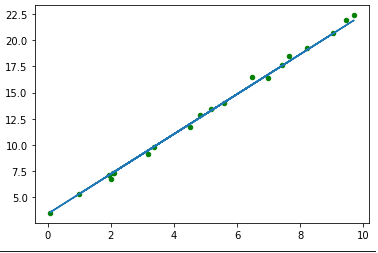
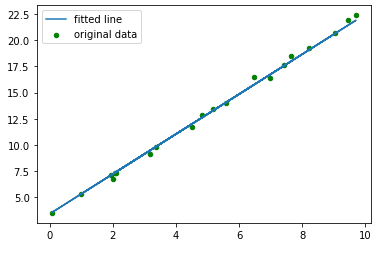
hexo deploy!

diff --git a/2020/04/02/Pytorchで単回帰やってみる/index.html b/2020/04/02/Pytorchで単回帰やってみる/index.html
@@ -27,7 +27,7 @@
 <meta property="og:image" content="https://kyoro1.github.io/images/scatter000.png">
 <meta property="og:image" content="https://kyoro1.github.io/images/scatter001.png">
 <meta property="article:published_time" content="2020-04-02T13:29:00.000Z">
-<meta property="article:modified_time" content="2020-04-02T15:58:45.919Z">
+<meta property="article:modified_time" content="2020-04-02T16:03:21.039Z">
 <meta property="article:author" content="Kyoichi Iwasaki">
 <meta property="article:tag" content="pytorch">
 <meta property="article:tag" content="data science">
@@ -134,7 +134,7 @@
 <p>こうやって計算させると、</p>
 <figure class="highlight py"><table><tr><td class="gutter"><pre><span class="line">1</span><br><span class="line">2</span><br></pre></td><td class="code"><pre><span class="line">w, b</span><br><span class="line"><span class="comment">#(tensor([[1.9053]], requires_grad=True), tensor([3.4280], requires_grad=True))</span></span><br></pre></td></tr></table></figure>
 <p>なので、元の値 <script type="math/tex">W=2, b=3</script> にそれなりに近い値が求められました。</p>
-<figure class="highlight py"><table><tr><td class="gutter"><pre><span class="line">1</span><br><span class="line">2</span><br><span class="line">3</span><br><span class="line">4</span><br><span class="line">5</span><br><span class="line">6</span><br><span class="line">7</span><br><span class="line">8</span><br></pre></td><td class="code"><pre><span class="line"><span class="comment">## 図示用に変形</span></span><br><span class="line">x_train_tensor = torch.from_numpy(X)</span><br><span class="line">predicted_in_tensor = x_train_tensor.mm(w) + b</span><br><span class="line">predicted = predicted_in_tensor.detach().numpy()</span><br><span class="line"></span><br><span class="line"><span class="comment">## 図示</span></span><br><span class="line">plt.scatter(X, y, label=<span class="string">'original data'</span>, s=<span class="number">20</span>, c=<span class="string">'g'</span>)</span><br><span class="line">plt.plot(X, predicted, label=<span class="string">'fitted line'</span>)</span><br></pre></td></tr></table></figure>
+<figure class="highlight py"><table><tr><td class="gutter"><pre><span class="line">1</span><br><span class="line">2</span><br><span class="line">3</span><br><span class="line">4</span><br><span class="line">5</span><br><span class="line">6</span><br><span class="line">7</span><br><span class="line">8</span><br><span class="line">9</span><br></pre></td><td class="code"><pre><span class="line"><span class="comment">## 図示用に変形</span></span><br><span class="line">x_train_tensor = torch.from_numpy(X)</span><br><span class="line">predicted_in_tensor = x_train_tensor.mm(w) + b</span><br><span class="line">predicted = predicted_in_tensor.detach().numpy()</span><br><span class="line"></span><br><span class="line"><span class="comment">## 図示</span></span><br><span class="line">plt.scatter(X, y, label=<span class="string">'original data'</span>, s=<span class="number">20</span>, c=<span class="string">'g'</span>)</span><br><span class="line">plt.plot(X, predicted, label=<span class="string">'fitted line'</span>)</span><br><span class="line">plt.legend()</span><br></pre></td></tr></table></figure>
 <p><img src="/images/scatter001.png" alt="元データと予測値を比較(散布図)"></p>
 
       

diff --git a/index.html b/index.html
@@ -131,7 +131,7 @@
 <p>こうやって計算させると、</p>
 <figure class="highlight py"><table><tr><td class="gutter"><pre><span class="line">1</span><br><span class="line">2</span><br></pre></td><td class="code"><pre><span class="line">w, b</span><br><span class="line"><span class="comment">#(tensor([[1.9053]], requires_grad=True), tensor([3.4280], requires_grad=True))</span></span><br></pre></td></tr></table></figure>
 <p>なので、元の値 <script type="math/tex">W=2, b=3</script> にそれなりに近い値が求められました。</p>
-<figure class="highlight py"><table><tr><td class="gutter"><pre><span class="line">1</span><br><span class="line">2</span><br><span class="line">3</span><br><span class="line">4</span><br><span class="line">5</span><br><span class="line">6</span><br><span class="line">7</span><br><span class="line">8</span><br></pre></td><td class="code"><pre><span class="line"><span class="comment">## 図示用に変形</span></span><br><span class="line">x_train_tensor = torch.from_numpy(X)</span><br><span class="line">predicted_in_tensor = x_train_tensor.mm(w) + b</span><br><span class="line">predicted = predicted_in_tensor.detach().numpy()</span><br><span class="line"></span><br><span class="line"><span class="comment">## 図示</span></span><br><span class="line">plt.scatter(X, y, label=<span class="string">'original data'</span>, s=<span class="number">20</span>, c=<span class="string">'g'</span>)</span><br><span class="line">plt.plot(X, predicted, label=<span class="string">'fitted line'</span>)</span><br></pre></td></tr></table></figure>
+<figure class="highlight py"><table><tr><td class="gutter"><pre><span class="line">1</span><br><span class="line">2</span><br><span class="line">3</span><br><span class="line">4</span><br><span class="line">5</span><br><span class="line">6</span><br><span class="line">7</span><br><span class="line">8</span><br><span class="line">9</span><br></pre></td><td class="code"><pre><span class="line"><span class="comment">## 図示用に変形</span></span><br><span class="line">x_train_tensor = torch.from_numpy(X)</span><br><span class="line">predicted_in_tensor = x_train_tensor.mm(w) + b</span><br><span class="line">predicted = predicted_in_tensor.detach().numpy()</span><br><span class="line"></span><br><span class="line"><span class="comment">## 図示</span></span><br><span class="line">plt.scatter(X, y, label=<span class="string">'original data'</span>, s=<span class="number">20</span>, c=<span class="string">'g'</span>)</span><br><span class="line">plt.plot(X, predicted, label=<span class="string">'fitted line'</span>)</span><br><span class="line">plt.legend()</span><br></pre></td></tr></table></figure>
 <p><img src="/images/scatter001.png" alt="元データと予測値を比較(散布図)"></p>
 
       
